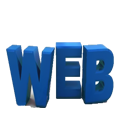
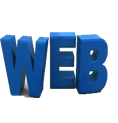
add files

diff --git a/_layouts/index.html b/_layouts/index.html
@@ -55,13 +55,13 @@
           <div class="g-sr" id="scroll">
               <ul>
                    <li class="item">
-                        <a href=""><img  src="/public/img/works/1351871216.jpg" alt="img" /></a>
+                        <a href=""><img  src="/public/img/works/bwg.png" alt="img" /></a>
                    </li>
                    <li class="item">
-                        <a href=""><img  src="/public/img/works/1306068149sxx.jpg" alt="img" /></a>
+                        <a href=""><img  src="/public/img/works/hu.png" alt="img" /></a>
                    </li>
                    <li class="item">
-                        <a href=""><img  src="/public/img/works/1357892659.jpg" alt="img" /></a>
+                        <a href=""><img  src="/public/img/works/hdj.jpg" alt="img" /></a>
                   </li>
 
                   <li class="item">

diff --git a/_layouts/product.html b/_layouts/product.html
@@ -15,7 +15,7 @@
                </div>
 
             <li class="item"> 
-               <a href="/"><img  src="/public/img/works/bwg.jpg" alt="img" /></a>
+               <a href="/"><img  src="/public/img/works/bwg.png" alt="img" /></a>
                <div class="f-over">
                    <div class="f-aut">作者：邱欣欣、黄田</div>
                    <div class="f-name">简介：华中农业大学博物馆网站</div>
